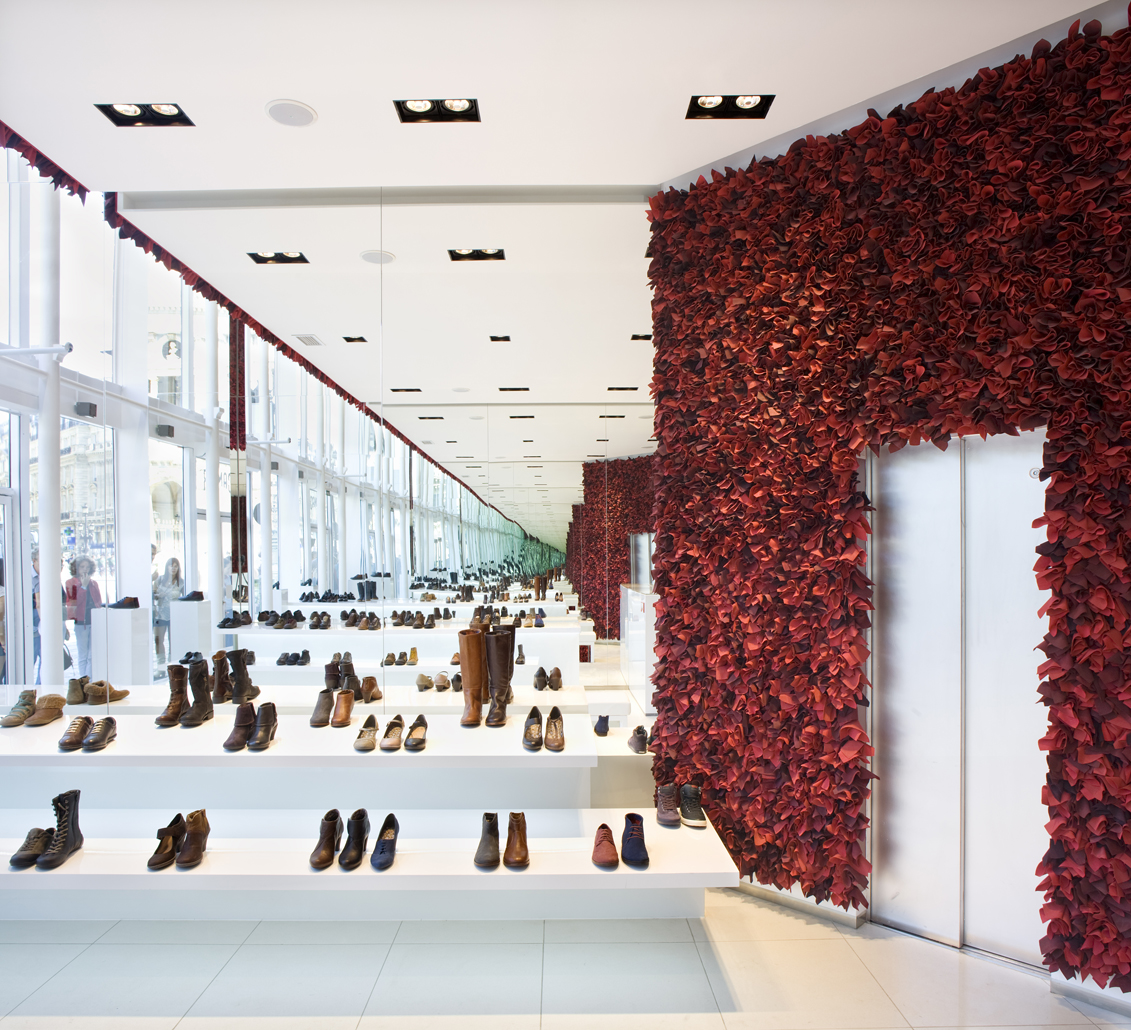
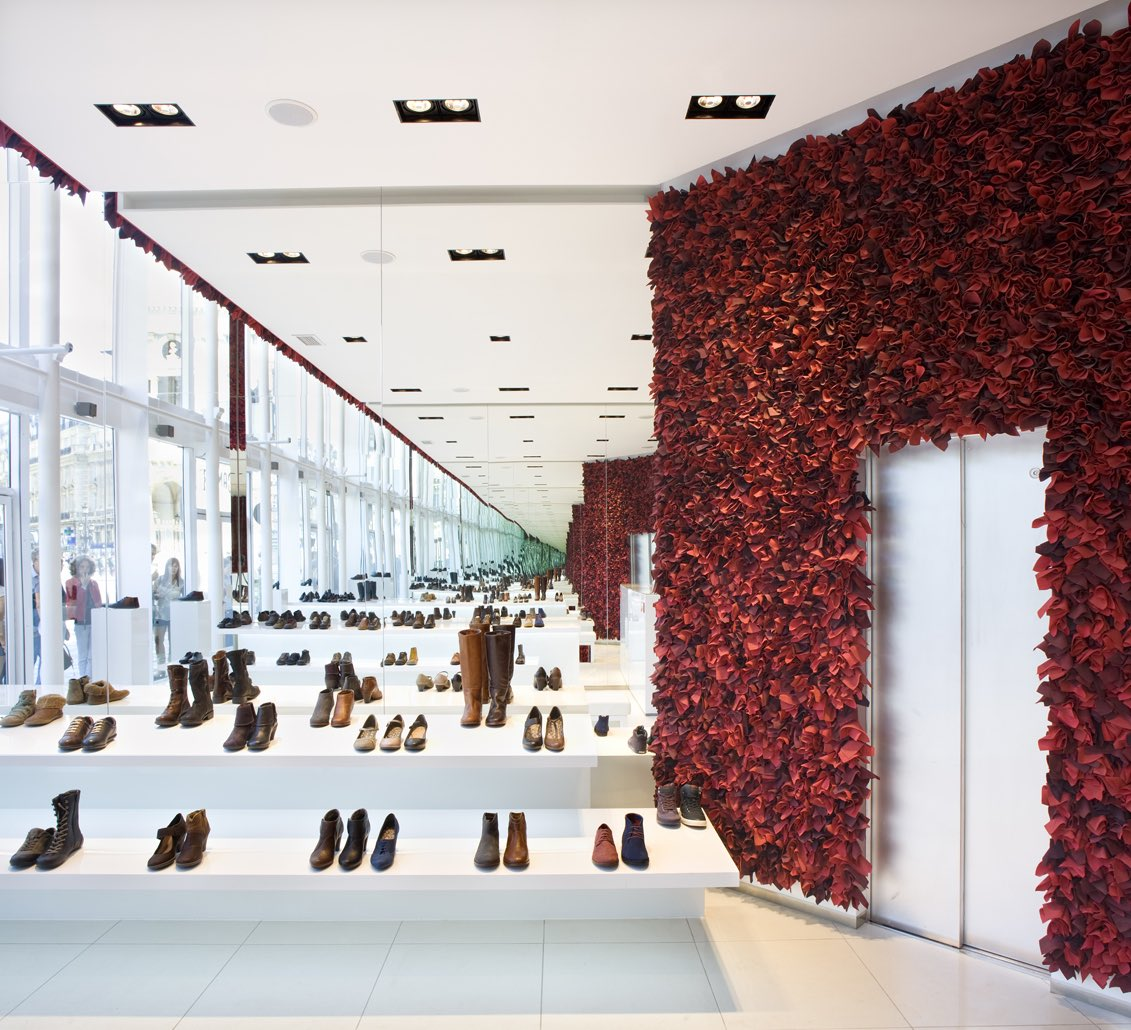
update landing page, compressed imgs

diff --git a/css/main.css b/css/main.css
@@ -81,11 +81,11 @@ a {
   }
   */ }
   a:hover {
-    color: #217ac4;
+    color: black;
     text-decoration: none; }
 
 article a {
-  color: #217ac4;
+  color: black;
   font-weight: 100; }
   article a:hover {
     text-decoration: none; }
@@ -168,7 +168,7 @@ pre {
   margin-bottom: 0; }
   .site-title:hover {
     text-decoration: none;
-    color: #217ac4; }
+    color: black; }
 
 .site-nav {
   float: right;
@@ -202,7 +202,7 @@ pre {
   line-height: 3em;
   z-index: 25; }
   .header-bar h1 {
-    color: #217ac4;
+    color: black;
     font-size: 75px; }
   .header-bar h2 {
     font-size: 25px; }
@@ -237,7 +237,7 @@ pre {
 .paginationicon {
   font-size: 50px; }
   .paginationicon a {
-    color: #217ac4; }
+    color: black; }
 
 /**
  * Page content   **********************************************************
@@ -256,7 +256,7 @@ pre {
     margin-bottom: 40px; }
 
 .contacticon {
-  font-size: 60px;
+  font-size: 45px;
   display: block;
   margin: 10px; }
 
@@ -367,7 +367,7 @@ pre {
  * Portfolio pages **********************************************************
 */
 .blankbox {
-  background: #217ac4; }
+  background: black; }
 
 .img_row {
   height: 275px;

diff --git a/index.html b/index.html
@@ -14,6 +14,9 @@
     <link rel="canonical" href="https://www.nordengse.com/">
 
     <link rel="stylesheet" href="//maxcdn.bootstrapcdn.com/font-awesome/4.3.0/css/font-awesome.min.css">
+
+    <link rel="shortcut icon" href="/favicon.png" type="image/png">
+    <link rel="icon" href="/favicon.png" type="image/png">
 </head>
 
 
@@ -54,22 +57,15 @@
 
     <div class="page-content">
       <div class="wrapper">
-        <div class="header-bar">
+        <img class="col three" src="/img/nordenlogo.png">
+
+<div class="header-bar">
   <h1>Norden</h1>
-  <h2>General Services in Europe, S.L.U.</h2>
-  <br/>
-  <hr>
-  <br/>
+  <h2>General Service in Europe, S.L.U.</h2>
 </div>
 
-
-<ul class="post-list">
-    
-</ul>
-
-
 <span class="contacticon center">
-	<a href="mailto:norden@nordengse.com">contacto</a>
+	<a href="mailto:norden@nordengse.com">norden@nordengse.com</a>
 </span>
 
       </div>

diff --git a/portfolio/madridcartujano/index.html b/portfolio/madridcartujano/index.html
@@ -14,6 +14,9 @@
     <link rel="canonical" href="https://www.nordengse.com/portfolio/madridcartujano/">
 
     <link rel="stylesheet" href="//maxcdn.bootstrapcdn.com/font-awesome/4.3.0/css/font-awesome.min.css">
+
+    <link rel="shortcut icon" href="/favicon.png" type="image/png">
+    <link rel="icon" href="/favicon.png" type="image/png">
 </head>
 
 

diff --git a/portfolio/fripperies/index.html b/portfolio/fripperies/index.html
@@ -14,6 +14,9 @@
     <link rel="canonical" href="https://www.nordengse.com/portfolio/fripperies/">
 
     <link rel="stylesheet" href="//maxcdn.bootstrapcdn.com/font-awesome/4.3.0/css/font-awesome.min.css">
+
+    <link rel="shortcut icon" href="/favicon.png" type="image/png">
+    <link rel="icon" href="/favicon.png" type="image/png">
 </head>
 
 

diff --git a/portfolio/washington/index.html b/portfolio/washington/index.html
@@ -14,6 +14,9 @@
     <link rel="canonical" href="https://www.nordengse.com/portfolio/washington/">
 
     <link rel="stylesheet" href="//maxcdn.bootstrapcdn.com/font-awesome/4.3.0/css/font-awesome.min.css">
+
+    <link rel="shortcut icon" href="/favicon.png" type="image/png">
+    <link rel="icon" href="/favicon.png" type="image/png">
 </head>
 
 

diff --git a/portfolio/barcelona/index.html b/portfolio/barcelona/index.html
@@ -14,6 +14,9 @@
     <link rel="canonical" href="https://www.nordengse.com/portfolio/barcelona/">
 
     <link rel="stylesheet" href="//maxcdn.bootstrapcdn.com/font-awesome/4.3.0/css/font-awesome.min.css">
+
+    <link rel="shortcut icon" href="/favicon.png" type="image/png">
+    <link rel="icon" href="/favicon.png" type="image/png">
 </head>
 
 

diff --git a/portfolio/rotterdam/index.html b/portfolio/rotterdam/index.html
@@ -14,6 +14,9 @@
     <link rel="canonical" href="https://www.nordengse.com/portfolio/rotterdam/">
 
     <link rel="stylesheet" href="//maxcdn.bootstrapcdn.com/font-awesome/4.3.0/css/font-awesome.min.css">
+
+    <link rel="shortcut icon" href="/favicon.png" type="image/png">
+    <link rel="icon" href="/favicon.png" type="image/png">
 </head>
 
 

diff --git a/portfolio/dosaguas/index.html b/portfolio/dosaguas/index.html
@@ -14,6 +14,9 @@
     <link rel="canonical" href="https://www.nordengse.com/portfolio/dosaguas/">
 
     <link rel="stylesheet" href="//maxcdn.bootstrapcdn.com/font-awesome/4.3.0/css/font-awesome.min.css">
+
+    <link rel="shortcut icon" href="/favicon.png" type="image/png">
+    <link rel="icon" href="/favicon.png" type="image/png">
 </head>
 
 

diff --git a/portfolio/amberes/index.html b/portfolio/amberes/index.html
@@ -14,6 +14,9 @@
     <link rel="canonical" href="https://www.nordengse.com/portfolio/amberes/">
 
     <link rel="stylesheet" href="//maxcdn.bootstrapcdn.com/font-awesome/4.3.0/css/font-awesome.min.css">
+
+    <link rel="shortcut icon" href="/favicon.png" type="image/png">
+    <link rel="icon" href="/favicon.png" type="image/png">
 </head>
 
 

diff --git a/portfolio/serrano/index.html b/portfolio/serrano/index.html
@@ -14,6 +14,9 @@
     <link rel="canonical" href="https://www.nordengse.com/portfolio/serrano/">
 
     <link rel="stylesheet" href="//maxcdn.bootstrapcdn.com/font-awesome/4.3.0/css/font-awesome.min.css">
+
+    <link rel="shortcut icon" href="/favicon.png" type="image/png">
+    <link rel="icon" href="/favicon.png" type="image/png">
 </head>
 
 

diff --git a/portfolio/london/index.html b/portfolio/london/index.html
@@ -14,6 +14,9 @@
     <link rel="canonical" href="https://www.nordengse.com/portfolio/london/">
 
     <link rel="stylesheet" href="//maxcdn.bootstrapcdn.com/font-awesome/4.3.0/css/font-awesome.min.css">
+
+    <link rel="shortcut icon" href="/favicon.png" type="image/png">
+    <link rel="icon" href="/favicon.png" type="image/png">
 </head>
 
 

diff --git a/portfolio/malaga/index.html b/portfolio/malaga/index.html
@@ -14,6 +14,9 @@
     <link rel="canonical" href="https://www.nordengse.com/portfolio/malaga/">
 
     <link rel="stylesheet" href="//maxcdn.bootstrapcdn.com/font-awesome/4.3.0/css/font-awesome.min.css">
+
+    <link rel="shortcut icon" href="/favicon.png" type="image/png">
+    <link rel="icon" href="/favicon.png" type="image/png">
 </head>
 
 
